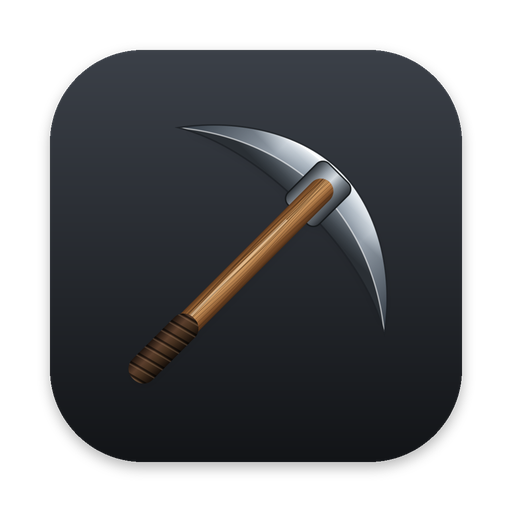
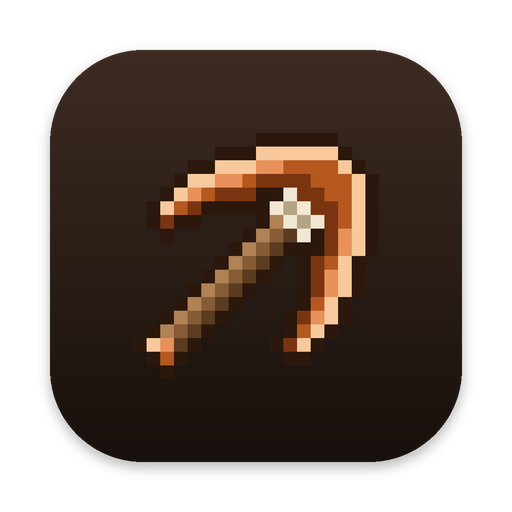
20261015
Update ModelCraft icon to the new pickaxe design and match its colours.

diff --git a/products/modelcraft/index.html b/products/modelcraft/index.html
@@ -10,8 +10,8 @@
     <link rel="stylesheet" href="../../common/site.css">
     <script src="../../common/site.js"></script>
     <style>
-        :root { --accent-l: #2f7de1; --accent-d: #6aa8ff; }
-        .hero { background: radial-gradient(800px 360px at 30% 0%, color-mix(in srgb, #ff9a85 16%, transparent), transparent 65%), radial-gradient(800px 360px at 75% 5%, color-mix(in srgb, #72c1dc 18%, transparent), transparent 65%); }
+        :root { --accent-l: #b85a24; --accent-d: #f0a06a; }
+        .hero { background: radial-gradient(800px 380px at 50% 0%, color-mix(in srgb, #e8955a 20%, transparent), transparent 65%); }
         .hero-shot { margin-top: 64px; }
     </style>
 </head>

diff --git a/resume/index.html b/resume/index.html
@@ -284,7 +284,7 @@
                             <h2><span data-i18n="about.projects">Projects</span></h2>
                         </div>
                         <div class="timeline">
-                            <article class="entry" style="--hue: #8b5cf6;">
+                            <article class="entry" style="--hue: #c8672e;">
                                 <div class="mark logo"><img data-app-icon="modelcraft" src="../assets/modelcraft/icon-light.png" alt="" width="34" height="34"></div>
                                 <div>
                                     <div class="entry-head">

diff --git a/index.html b/index.html
@@ -22,7 +22,7 @@
             <div class="wrap">
 
                 <div class="grid grid-2">
-                    <div class="card product-card" style="--brand: #4f9be8;">
+                    <div class="card product-card" style="--brand: #e08a4e;">
                         <a class="head" href="products/modelcraft/">
                             <img data-app-icon="modelcraft" src="assets/modelcraft/icon-light.png" alt="" width="80" height="80">
                             <div>
